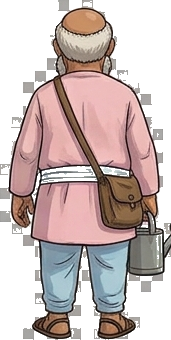
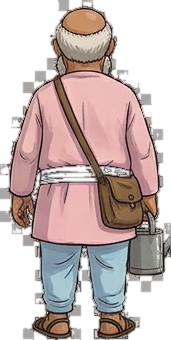
Clean the sprite sheets and stop pixelating the upscale
The sheets had a hard binary alpha with leftover background pixels stuck
to the line art, which read as a pale ragged outline around every
character. tools/clean_sprites.py recolours the silhouette from its own
interior, bleeds colour into the transparent pixels so filtering cannot
drag black into the edge, and softens the alpha edge.

The canvas was also upscaled with image-rendering: pixelated, which turned
every sprite edge into stair-steps. The art is hand-painted watercolour, so
let the browser scale it smoothly instead.

diff --git a/css/style.css b/css/style.css
@@ -24,9 +24,10 @@ canvas#game {
   width: min(100vw, calc(100dvh * 4 / 3));
   height: auto;
   touch-action: manipulation;
-  /* SVGA aesthetic: render at 640x480, upscale without smoothing */
-  image-rendering: crisp-edges;
-  image-rendering: pixelated;
+  /* Hand-painted watercolour art: let the browser upscale smoothly. Nearest
+     neighbour ('pixelated') turns every sprite edge into stair-steps and makes
+     the anti-aliased sprite silhouettes look ragged. */
+  image-rendering: auto;
   cursor: none;
   outline: none;
 }

diff --git a/tools/clean_sprites.py b/tools/clean_sprites.py
@@ -1,0 +1,118 @@
+"""Clean sprite sheets: remove the leftover light background fringe, bleed the
+sprite's own colours outward into transparent pixels, and give the silhouette a
+soft anti-aliased edge.
+
+Originals are in git (assets/**), so `git checkout assets` restores them.
+
+    python3 tools/clean_sprites.py
+"""
+import glob
+import os
+import sys
+
+from PIL import Image, ImageFilter
+
+NEIGH8 = [(-1, -1), (0, -1), (1, -1), (-1, 0), (1, 0), (-1, 1), (0, 1), (1, 1)]
+
+
+def clean(path, out_path):
+    im = Image.open(path).convert('RGBA')
+    w, h = im.size
+    src = im.load()
+
+    alpha = [[src[x, y][3] for x in range(w)] for y in range(h)]
+    opaque = [[alpha[y][x] > 127 for x in range(w)] for y in range(h)]
+
+    # core = opaque with every 8-neighbour also opaque (i.e. not on the silhouette)
+    core = [[False] * w for _ in range(h)]
+    for y in range(h):
+        row, crow = opaque[y], core[y]
+        for x in range(w):
+            if not row[x]:
+                continue
+            ok = True
+            for dx, dy in NEIGH8:
+                xx, yy = x + dx, y + dy
+                if not (0 <= xx < w and 0 <= yy < h) or not opaque[yy][xx]:
+                    ok = False
+                    break
+            crow[x] = ok
+
+    buf = [[list(src[x, y]) for x in range(w)] for y in range(h)]
+
+    # 1. boundary pixels inherit the local interior colour, killing the fringe
+    fixed = 0
+    for y in range(h):
+        for x in range(w):
+            if not opaque[y][x] or core[y][x]:
+                continue
+            acc = [0, 0, 0]
+            n = 0
+            for r in (2, 3, 4):
+                for dy in range(-r, r + 1):
+                    for dx in range(-r, r + 1):
+                        if max(abs(dx), abs(dy)) != r:
+                            continue
+                        xx, yy = x + dx, y + dy
+                        if 0 <= xx < w and 0 <= yy < h and core[yy][xx]:
+                            p = buf[yy][xx]
+                            acc[0] += p[0]; acc[1] += p[1]; acc[2] += p[2]
+                            n += 1
+                if n >= 8:
+                    break
+            if n:
+                buf[y][x][0] = acc[0] // n
+                buf[y][x][1] = acc[1] // n
+                buf[y][x][2] = acc[2] // n
+                fixed += 1
+
+    # 2. bleed colour outward so filtering never drags black into the edge
+    for _ in range(4):
+        for y in range(h):
+            for x in range(w):
+                if opaque[y][x]:
+                    continue
+                acc = [0, 0, 0]
+                n = 0
+                for dx, dy in NEIGH8:
+                    xx, yy = x + dx, y + dy
+                    if 0 <= xx < w and 0 <= yy < h and opaque[yy][xx]:
+                        p = buf[yy][xx]
+                        acc[0] += p[0]; acc[1] += p[1]; acc[2] += p[2]
+                        n += 1
+                if n:
+                    buf[y][x][0] = acc[0] // n
+                    buf[y][x][1] = acc[1] // n
+                    buf[y][x][2] = acc[2] // n
+
+    out = Image.new('RGBA', (w, h))
+    op = out.load()
+    for y in range(h):
+        for x in range(w):
+            p = buf[y][x]
+            op[x, y] = (p[0], p[1], p[2], 255 if opaque[y][x] else 0)
+
+    # 3. soften the silhouette: blur alpha only, so the colour stays crisp
+    a = out.getchannel('A').filter(ImageFilter.GaussianBlur(0.7))
+    out.putalpha(a)
+
+    out.save(out_path, format='PNG')
+    return fixed
+
+
+def main():
+    files = sorted(glob.glob('assets/*/*.png'))
+    if not files:
+        print('no sprites found — run from the repo root', file=sys.stderr)
+        return 1
+    for path in files:
+        tmp = path + '.tmp'
+        fixed = clean(path, tmp)
+        os.replace(tmp, path)
+        print(f'{path:40s} edge pixels recoloured: {fixed}')
+    print(f'\ncleaned {len(files)} sprites')
+    return 0
+
+
+if __name__ == '__main__':
+    raise SystemExit(main())
